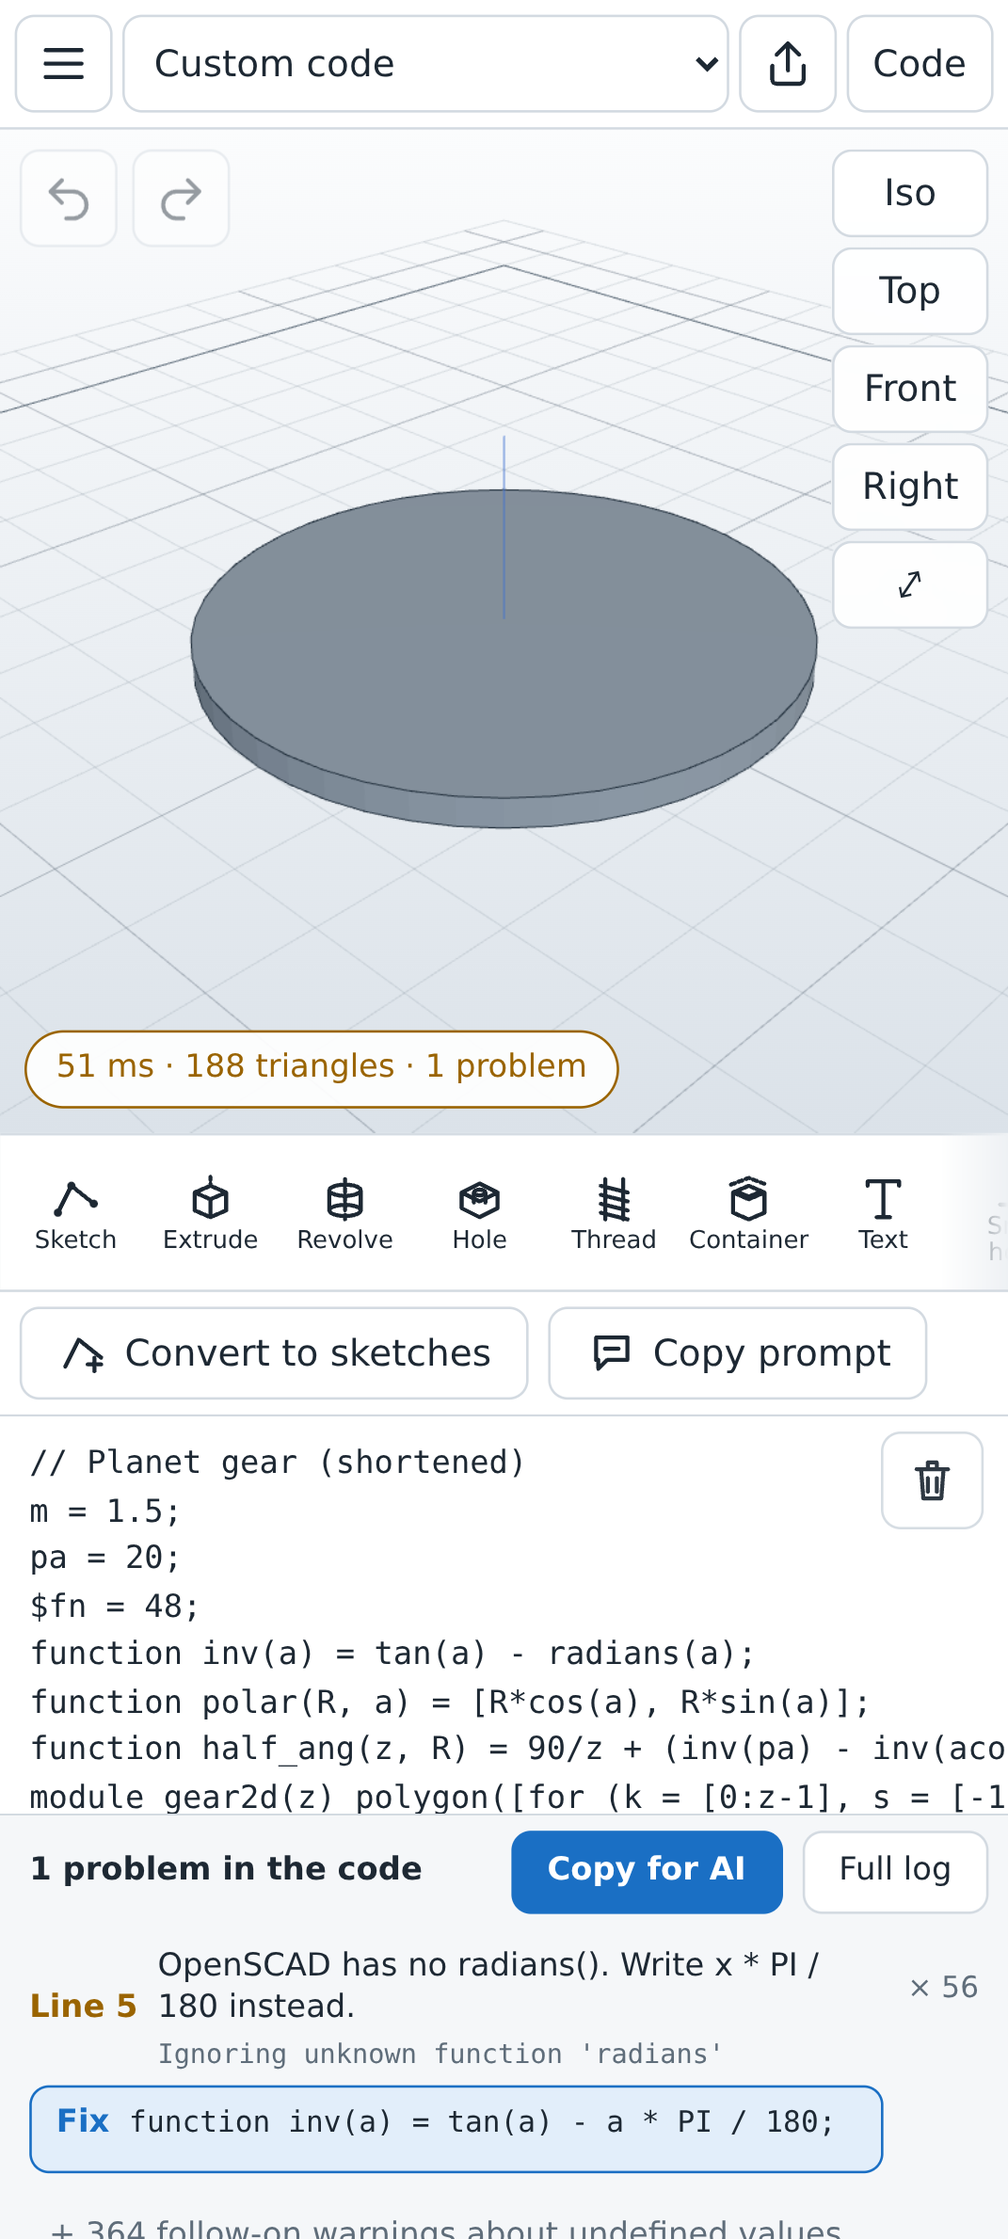
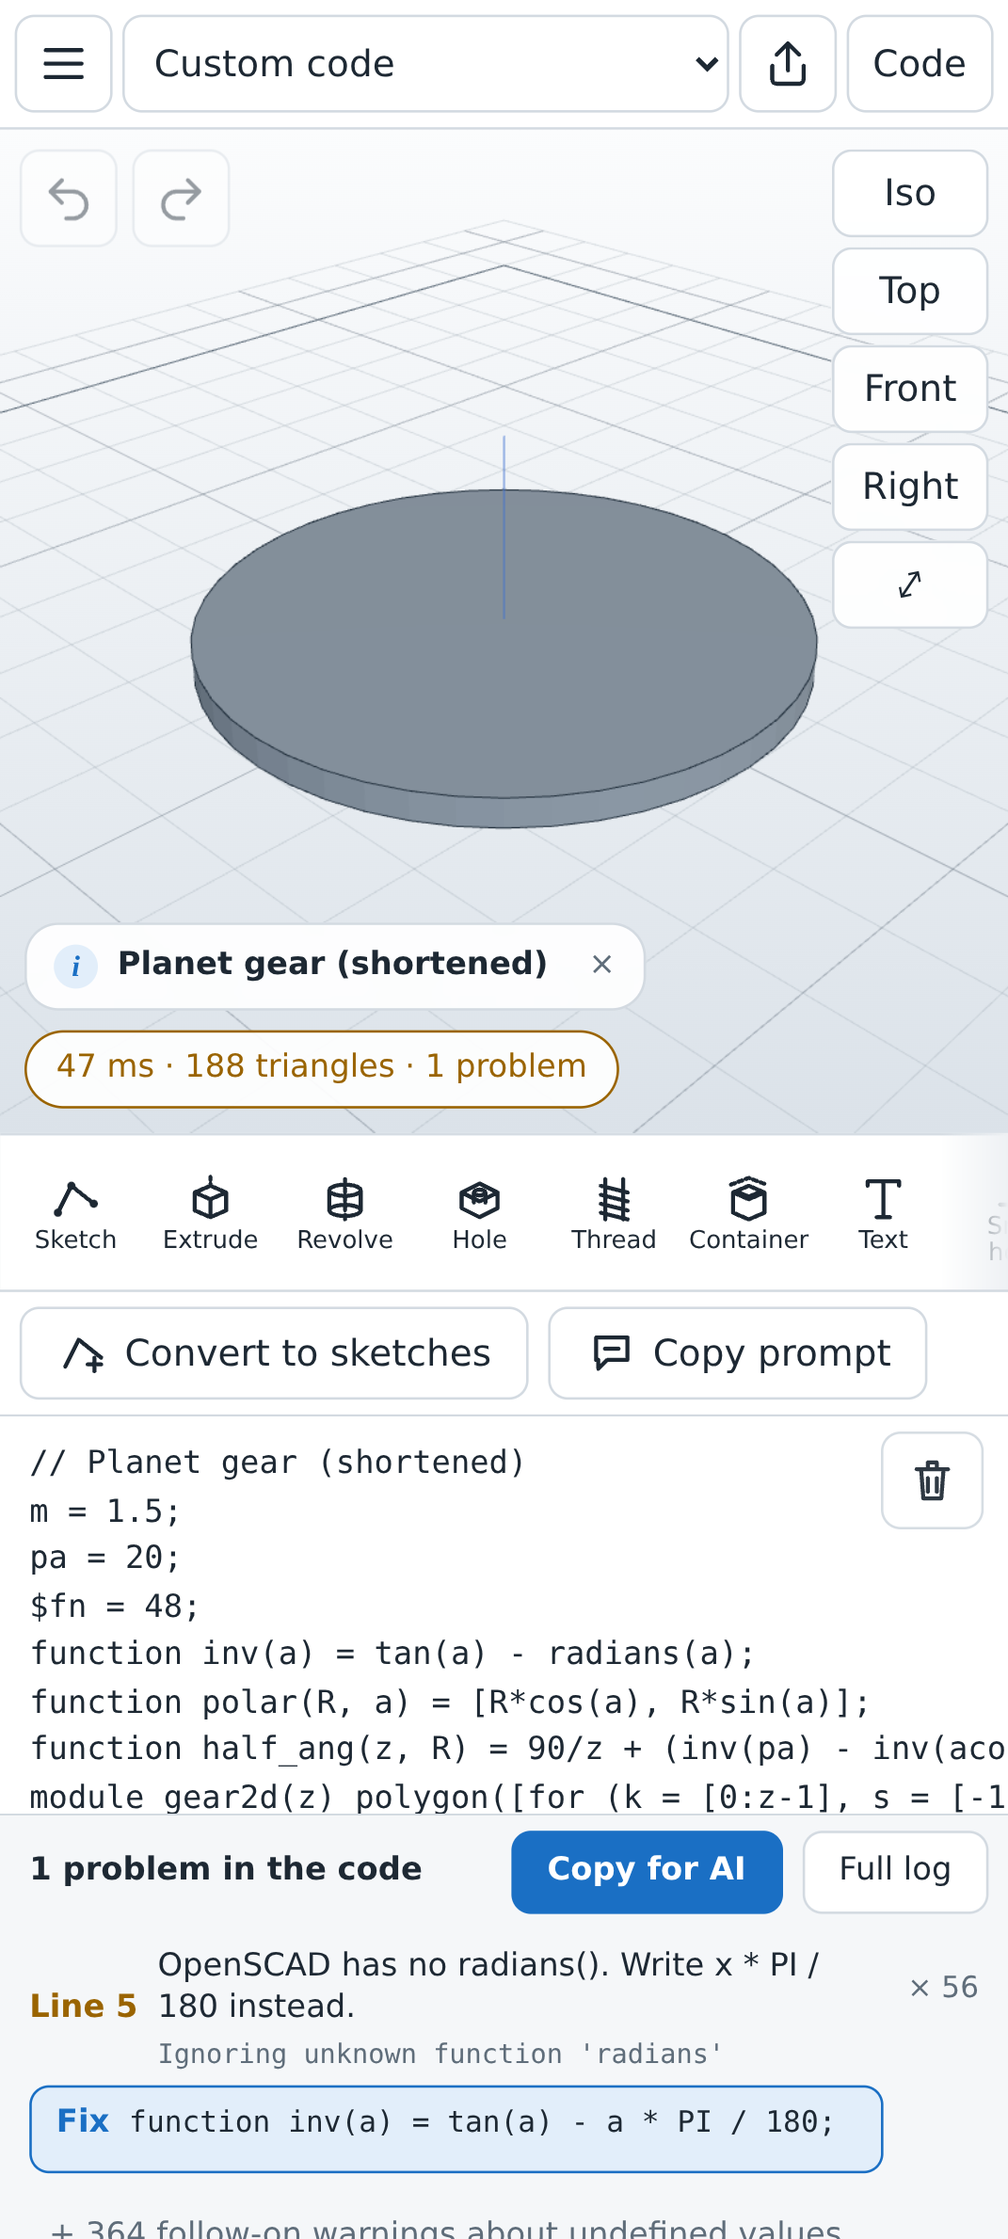
What the code says it is, above the model; print-in-place clearances in the prompt
The AI prompt asks for a comment at the top of the file: what it is, a line
per part and how they go together, and any design change a rule forced. The
app shows that comment above the status (codeDescription in aiprompt.ts,
src/ui/modelnote.ts): the title, a tap for the parts, × to hide. The prompt
also gives clearances (0.4 mm print-in-place, 0.2–0.3 mm snap and slide
fits) and says print-in-place means one print, already assembled. The AI
trial retries a chat that gave no answer and records the description.

Changed region(s): [[0.0308, 0.4044, 0.6471, 0.4977]]

diff --git a/src/i18n-sv.ts b/src/i18n-sv.ts
@@ -12,6 +12,7 @@ export const sv: Record<keyof typeof en, string> = {
   'ui.cancel': 'Avbryt',
   'ui.ok': 'OK',
   'ui.close': 'Stäng',
+  'note.title': 'Vad koden säger att den är (dess första kommentar): tryck för delarna',
   'ui.undo': 'Ångra',
   'ui.redo': 'Gör om',
   'ui.finish': 'Avsluta',
@@ -44,7 +45,7 @@ export const sv: Record<keyof typeof en, string> = {
   'ai.noCode': 'Urklippet innehåller ingen OpenSCAD-kod – kopiera koden i AI-chatten, eller håll fingret i koden och klistra in',
   'ai.fencesRemoved': 'Bara koden ur svaret klistrades in',
   'ai.received': 'Koden från AI-chatten öppnad',
-  'ai.prompt': 'Skriv en OpenSCAD-modell åt mig. Jag öppnar den i scadshape ({version}, Manifold).\n\nRegler:\n- Svara med en komplett .scad-fil i ett enda kodblock.\n- Lägg alla mått (i mm) som variabler överst med en kort kommentar, t.ex. width = 60; // yttre bredd. Använd vanliga tal, så kan de bli mått som går att ändra.\n- Vinklar är i grader: sin(30), rotate([0, 0, 45]). Det finns ingen radians().\n- Bibliotek som finns: {libs} (t.ex. include <BOSL2/std.scad>). Inga andra.\n- Skruvgängor: threaded_rod() och threaded_nut() från BOSL2 (include <BOSL2/threading.scad>). Det finns ingen screw_thread() eller metric_thread().\n- Typsnitt för text(): {fonts}.\n- Den ska gå att skriva ut på {printer} utan stöd: plant mot bädden, inget som svävar i luften, inget överhäng brantare än 45° (fasa undersidor; gängor går bra).\n- Flera delar: lägg dem bredvid varandra för utskrift, inte hopmonterade; alla, med mellanrummen, måste få plats på bädden.\n- Inga %- eller #-modifierare, och $fn högst 96.\n\nDet här vill jag ha: ',
+  'ai.prompt': 'Skriv en OpenSCAD-modell åt mig. Jag öppnar den i scadshape ({version}, Manifold).\n\nRegler:\n- Svara med en komplett .scad-fil i ett enda kodblock.\n- Börja filen med en kommentar: första raden vad det är, sedan en rad per del om vad den gör och hur den passar ihop med de andra (t.ex. // Lock: skruvas på burkens hals). Om en regel nedan fick dig att ändra designen, skriv det där också.\n- Lägg alla mått (i mm) som variabler överst med en kort kommentar, t.ex. width = 60; // yttre bredd. Använd vanliga tal, så kan de bli mått som går att ändra.\n- Vinklar är i grader: sin(30), rotate([0, 0, 45]). Det finns ingen radians().\n- Bibliotek som finns: {libs} (t.ex. include <BOSL2/std.scad>). Inga andra.\n- Skruvgängor: threaded_rod() och threaded_nut() från BOSL2 (include <BOSL2/threading.scad>). Det finns ingen screw_thread() eller metric_thread().\n- Typsnitt för text(): {fonts}.\n- Den ska gå att skriva ut på {printer} utan stöd: plant mot bädden, inget som svävar i luften, inget överhäng brantare än 45° (fasa undersidor; gängor går bra).\n- Flera delar: lägg dem bredvid varandra för utskrift, inte hopmonterade; alla, med mellanrummen, måste få plats på bädden.\n- Delar som rör sig eller passar ihop behöver spel: 0,4 mm i print-in-place-leder, 0,2–0,3 mm för snäpp- och skjutpassningar. Print-in-place betyder en enda utskrift med leden redan ihopsatt och spel runt om, inget att sätta ihop efteråt.\n- Inga %- eller #-modifierare, och $fn högst 96.\n\nDet här vill jag ha: ',
   'start.step1': 'Tryck på Skiss och välj ett plan.',
   'start.step2': 'Rita linjer, rektanglar och cirklar. Markera en linje och tryck Mått för att låsa längden.',
   'start.step3': 'Tryck Klar och sedan Extrudera – eller Hål, Behållare, Text …',

diff --git a/src/i18n-en.ts b/src/i18n-en.ts
@@ -10,6 +10,7 @@ export const en = {
   'ui.cancel': 'Cancel',
   'ui.ok': 'OK',
   'ui.close': 'Close',
+  'note.title': 'What the code says it is (its first comment): tap for the parts',
   'ui.undo': 'Undo',
   'ui.redo': 'Redo',
   'ui.finish': 'Finish',
@@ -42,7 +43,7 @@ export const en = {
   'ai.noCode': 'The clipboard has no OpenSCAD code – copy the code in the AI chat, or long-press in the code and paste',
   'ai.fencesRemoved': 'Only the code from the answer was pasted',
   'ai.received': 'Code from the AI chat opened',
-  'ai.prompt': 'Write an OpenSCAD model for me. I will open it in scadshape ({version}, Manifold backend).\n\nRules:\n- Answer with one complete .scad file in a single code block.\n- Put every measurement (in mm) as a variable at the top with a short comment, e.g. width = 60; // outer width. Use plain numbers, so they can become editable dimensions.\n- Angles are in degrees: sin(30), rotate([0, 0, 45]). There is no radians().\n- Libraries available: {libs} (e.g. include <BOSL2/std.scad>). No others.\n- Screw threads: threaded_rod() and threaded_nut() from BOSL2 (include <BOSL2/threading.scad>). There is no screw_thread() or metric_thread().\n- Fonts for text(): {fonts}.\n- It must print on {printer} without support: flat on the bed, nothing floating in the air, no overhang steeper than 45° (chamfer undersides; screw threads are fine).\n- Several parts: lay them out side by side for printing, not assembled; all of them, gaps included, must fit on the bed.\n- No % or # modifiers, and $fn at most 96.\n\nWhat I want: ',
+  'ai.prompt': 'Write an OpenSCAD model for me. I will open it in scadshape ({version}, Manifold backend).\n\nRules:\n- Answer with one complete .scad file in a single code block.\n- Start the file with a comment: first line what it is, then a line per part saying what it does and how it fits the others (e.g. // Lid: screws onto the jar\'s neck). If a rule below made you change the design, say so there too.\n- Put every measurement (in mm) as a variable at the top with a short comment, e.g. width = 60; // outer width. Use plain numbers, so they can become editable dimensions.\n- Angles are in degrees: sin(30), rotate([0, 0, 45]). There is no radians().\n- Libraries available: {libs} (e.g. include <BOSL2/std.scad>). No others.\n- Screw threads: threaded_rod() and threaded_nut() from BOSL2 (include <BOSL2/threading.scad>). There is no screw_thread() or metric_thread().\n- Fonts for text(): {fonts}.\n- It must print on {printer} without support: flat on the bed, nothing floating in the air, no overhang steeper than 45° (chamfer undersides; screw threads are fine).\n- Several parts: lay them out side by side for printing, not assembled; all of them, gaps included, must fit on the bed.\n- Parts that move or fit together need a gap: 0.4 mm in print-in-place joints, 0.2–0.3 mm for snap and slide fits. Print-in-place means one print with the joint already assembled and the gap all round, nothing to put together afterwards.\n- No % or # modifiers, and $fn at most 96.\n\nWhat I want: ',
   'start.step1': 'Tap Sketch and pick a plane.',
   'start.step2': 'Draw lines, rectangles and circles. Select a line and tap Dimension to lock its length.',
   'start.step3': 'Tap Done, then Extrude – or Hole, Container, Text …',

diff --git a/tools/aitrial/trial.ts b/tools/aitrial/trial.ts
@@ -10,7 +10,7 @@ import { execFile, spawn } from 'node:child_process';
 import { randomUUID } from 'node:crypto';
 import { mkdirSync, readFileSync, writeFileSync } from 'node:fs';
 import { Worker } from 'node:worker_threads';
-import { aiPrompt, codeFromChat, looksLikeScad } from '../../src/aiprompt';
+import { aiPrompt, codeDescription, codeFromChat, looksLikeScad } from '../../src/aiprompt';
 import { scadToDoc, type ConvertEngine } from '../../src/convert/scad2doc';
 import { diagnose, meshProblems, problemsForAi, type Problem } from '../../src/diagnose';
 import { setLang } from '../../src/i18n';
@@ -93,13 +93,19 @@ async function trial(n: number) {
   const slug = request.toLowerCase().normalize('NFD').replace(/[^a-z0-9]+/g, '-').replace(/^-|-$/g, '').slice(0, 40);
   const dir = `${OUT}/${String(n).padStart(2, '0')}-${slug}`;
   mkdirSync(dir, { recursive: true });
-  const session = randomUUID();
+  let session = randomUUID();
   let text = aiPrompt({ version: VERSION, bed: BED, printer: 'Bambu Lab A1 mini' }) + request;
   const rounds: object[] = [];
   let cost = 0, last: string | null = null, clean = false;
   for (let r = 0; r <= ROUNDS; r++) {
     writeFileSync(`${dir}/r${r}-ask.txt`, text);
-    const a = await ask(session, text, r === 0);
+    let a = await ask(session, text, r === 0);
+    // The CLI now and then gives nothing at all (long answers, several chats at once): once more,
+    // in a new chat if it was the first question.
+    if (!a.reply && !a.cost) {
+      if (r === 0) session = randomUUID();
+      a = await ask(session, text, r === 0);
+    }
     cost += a.cost;
     writeFileSync(`${dir}/r${r}-reply.md`, a.reply || `ERROR: ${a.error}`);
     if (a.error || !a.reply) { rounds.push({ round: r, error: a.error ?? 'empty reply' }); break; }
@@ -133,10 +139,11 @@ async function trial(n: number) {
     text = problemsForAi(problems, code, VERSION);
   }
   // The last code: a picture, and Convert to sketches.
-  let convert: object | null = null;
+  let convert: object | null = null, description: { title: string; body: string } | null = null;
   if (last) {
     await picture(dir, last);
     const src = readFileSync(`${dir}/${last}.scad`, 'utf8');
+    description = codeDescription(src); // what the app shows above the model
     try {
       const r = await Promise.race([scadToDoc(src, engine), new Promise<never>((_, no) => setTimeout(() => no(new Error('convert timeout')), 240_000))]);
       convert = { sketches: r.sketches, extrudes: r.extrudes, revolves: r.revolves, codeBlocks: r.codeBlocks, params: r.params, linked: r.linked };
@@ -144,7 +151,7 @@ async function trial(n: number) {
       convert = { error: String(e).slice(0, 300) };
     }
   }
-  const result = { n, request, session, clean, rounds: rounds.length, cost: Math.round(cost * 10000) / 10000, last, convert, detail: rounds };
+  const result = { n, request, session, clean, rounds: rounds.length, cost: Math.round(cost * 10000) / 10000, last, description, convert, detail: rounds };
   writeFileSync(`${dir}/result.json`, JSON.stringify(result, null, 2));
   console.log(`${String(n).padStart(2)} ${clean ? 'clean' : 'NOT clean'} after ${rounds.length} round(s), $${result.cost}: ${request}`);
   return result;

diff --git a/tests/diagnose.test.ts b/tests/diagnose.test.ts
@@ -13,7 +13,7 @@ import { parseBinaryStl } from '../src/stl';
 import { FONTS_CONF, fontsFor } from '../src/fonts';
 import { lint } from '../src/lint';
 import { applyFix } from '../src/fixes';
-import { aiPrompt, codeFromChat, looksLikeScad } from '../src/aiprompt';
+import { aiPrompt, codeDescription, codeFromChat, looksLikeScad } from '../src/aiprompt';
 import { buildModel } from '../src/model3d';
 import { EXAMPLES, buildExample } from '../src/examples/models';
 setLang('en');
@@ -112,8 +112,18 @@ await test('the code is picked out of an AI chat answer', () => {
   assert.ok(looksLikeScad('cube(10);') && !looksLikeScad('https://example.com/model') && !looksLikeScad('Sure! Here is your model.'));
 });
 
+await test('the comment at the top of the code says what it is: a title and the parts', () => {
+  const src = '\n// Screw-top jar, 60 mm\n// ====================\n// Jar: the body, thread on its neck.\n// Lid: screws onto the neck.\n//\n\njar_d = 60; // outer diameter\n// not part of it\ncube(1);\n';
+  assert.deepEqual(codeDescription(src), { title: 'Screw-top jar, 60 mm', body: 'Jar: the body, thread on its neck.\nLid: screws onto the neck.' });
+  assert.deepEqual(codeDescription('/* Hook\n * Arm: 45° brace under it.\n */\ncube(1);'), { title: 'Hook', body: 'Arm: 45° brace under it.' });
+  assert.equal(codeDescription('width = 40; // outer width\ncube(width);'), null);
+  assert.equal(codeDescription('// ok\ncube(1);'), null); // too short to say anything
+});
+
 await test('the prompt tells the AI what the app runs', () => {
   const p = aiPrompt({ version: 'OpenSCAD 2026.10.15', bed: { w: 180, d: 180, h: 180 }, printer: 'Bambu Lab A1 mini' });
+  assert.match(p, /Start the file with a comment: first line what it is, then a line per part/);
+  assert.match(p, /0\.4 mm in print-in-place joints/);
   assert.match(p, /scadshape \(OpenSCAD 2026\.10\.15, Manifold backend\)/);
   assert.match(p, /Libraries available: BOSL2, Round-Anything, dotSCAD, gridfinity-rebuilt-openscad, MCAD \(/);
   assert.match(p, /Fonts for text\(\): Liberation Sans, Liberation Serif, Liberation Mono, Allerta Stencil, Bebas Neue, Pacifico, Orbitron\./);

diff --git a/public/style.css b/public/style.css
@@ -270,6 +270,29 @@ main { display: flex; min-height: 0; }
 .status.warn { color: var(--warn); border-color: var(--warn); }
 @keyframes spin { to { transform: rotate(360deg); } }
 
+/* What the code says it is (its top comment, src/ui/modelnote.ts): above the status, tap for the parts. */
+.modelnote {
+  position: absolute;
+  left: max(10px, env(safe-area-inset-left));
+  bottom: calc(max(10px, env(safe-area-inset-bottom)) + 40px);
+  display: grid;
+  grid-template-columns: minmax(0, 1fr) auto;
+  max-width: min(440px, calc(100% - 20px));
+  border: 1px solid var(--line);
+  border-radius: 14px;
+  background: var(--float);
+  backdrop-filter: blur(4px);
+  font-size: 13px;
+}
+.modelnote[hidden] { display: none; }
+.modelnote button { min-height: 34px; border-color: transparent; background: none; }
+#modelNoteToggle { justify-content: flex-start; gap: 8px; min-width: 0; padding: 0 4px 0 10px; text-align: left; }
+#modelNoteTitle { overflow: hidden; text-overflow: ellipsis; white-space: nowrap; font-weight: 600; }
+.modelnote .ni { flex: none; display: inline-grid; place-items: center; width: 18px; height: 18px; border-radius: 50%; background: var(--accent-soft); color: var(--accent); font: italic 700 12px Georgia, serif; }
+#modelNoteClose { width: 34px; padding: 0; color: var(--muted); }
+#modelNoteBody { grid-column: 1 / -1; max-height: 35vh; overflow: auto; padding: 0 12px 10px 36px; white-space: pre-wrap; line-height: 1.4; }
+#modelNoteBody[hidden] { display: none; }
+
 /*
  * Until main.ts has loaded the models (IndexedDB) and wired up the buttons: nothing to tap. After
  * 3 s the page shows anyway (in case the startup crashed).
@@ -594,7 +617,7 @@ body { grid-template-columns: minmax(0, 1fr); }
 .bar > * { min-width: 0; }
 .bar select { width: 0; flex: 1 1 auto; }
 @media (orientation: portrait) {
-  #viewport:has(#featPanel:not([hidden])) .status { display: none; }
+  #viewport:has(#featPanel:not([hidden])) .status, #viewport:has(#featPanel:not([hidden])) .modelnote { display: none; }
 }
 
 .fp-pair { display: grid; grid-template-columns: minmax(0, 1fr) minmax(0, 1fr); gap: 8px; }

diff --git a/src/aiprompt.ts b/src/aiprompt.ts
@@ -29,6 +29,29 @@ export function codeFromChat(text: string): string {
   return `${pick.code.replace(/\s+$/, '')}\n`;
 }
 
+/**
+ * What the code says it is: the comment block at its top (the prompt asks the AI to start with one:
+ * what it is, then a line per part and how they go together). `title` is its first line, `body` the
+ * rest; null without one. Rules like // ====== are left out.
+ */
+export function codeDescription(src: string): { title: string; body: string } | null {
+  const lines: string[] = [];
+  const rest = src.replace(/^\s+/, '');
+  const block = /^\/\*([\s\S]*?)\*\//.exec(rest);
+  if (block) lines.push(...block[1].split('\n').map(l => l.replace(/^\s*\*?\s?/, '')));
+  else
+    for (const l of rest.split('\n')) {
+      const m = /^\s*\/\/+\s?(.*)$/.exec(l);
+      if (!m) break;
+      lines.push(m[1]);
+    }
+  const text = lines.map(l => l.trimEnd()).filter(l => !/^[-=*#_~\s]{3,}$/.test(l));
+  while (text.length && !text[0].trim()) text.shift();
+  while (text.length && !text[text.length - 1].trim()) text.pop();
+  if (!text.length || text[0].trim().length < 3) return null;
+  return { title: text[0].trim(), body: text.slice(1).join('\n') };
+}
+
 /** Does the text look like OpenSCAD code (and not, say, a link or a sentence)? */
 export const looksLikeScad = (s: string) =>
   /[;{}]/.test(s) && /\b(cube|cylinder|sphere|polygon|polyhedron|square|circle|text|module|function|linear_extrude|rotate_extrude|union|difference|intersection|hull|translate|include|use)\b/.test(s);

diff --git a/src/ui/modelnote.ts b/src/ui/modelnote.ts
@@ -1,0 +1,34 @@
+// What the code says it is: the comment block at the top of example or custom code (the AI prompt
+// asks for one: what it is, a line per part and how they go together), shown above the status bar.
+// Its first line shows; a tap opens the rest. Closed with ×, it stays away until the comment changes.
+
+import { codeDescription } from '../aiprompt';
+import { $ } from './dom';
+
+let shown = '', closed = '';
+
+function setOpen(open: boolean) {
+  $('#modelNoteBody').hidden = !open || !$('#modelNoteBody').textContent;
+  $('#modelNoteToggle').setAttribute('aria-expanded', String(open));
+}
+
+/** Show the top comment of `src` (null: none, e.g. the user's own model). */
+export function showModelNote(src: string | null) {
+  const d = src ? codeDescription(src) : null;
+  const key = d ? `${d.title}\n${d.body}` : '';
+  const note = $('#modelNote');
+  note.hidden = !d || key === closed;
+  if (!d || key === shown) return;
+  shown = key;
+  $('#modelNoteTitle').textContent = d.title;
+  $('#modelNoteBody').textContent = d.body;
+  setOpen(false);
+}
+
+export function initModelNote() {
+  $('#modelNoteToggle').addEventListener('click', () => setOpen($('#modelNoteToggle').getAttribute('aria-expanded') !== 'true'));
+  $('#modelNoteClose').addEventListener('click', () => {
+    closed = shown;
+    $('#modelNote').hidden = true;
+  });
+}

diff --git a/src/ui/render.ts b/src/ui/render.ts
@@ -12,6 +12,7 @@ import { Viewer } from '../viewer';
 import { bedOf, fitsBed, meshSize, parseBedChoice } from '../bed';
 import { t, type Key } from '../i18n';
 import { $, el, fmtInt, fmtMs, store } from './dom';
+import { showModelNote } from './modelnote';
 import { clearProblems, showProblems } from './problems';
 import { app, on, vars } from './state';
 import cube from '../examples/cube.scad';
@@ -160,6 +161,7 @@ async function renderOnce() {
   const src = app.source === 'custom' ? code.value : currentCode();
   if (app.source !== 'custom') code.value = src;
   else store.set('code', code.value);
+  showModelNote(app.source === 'model' ? null : src);
   for (const cb of renderOpts.onRendered) cb();
   const errs = app.source === 'model' ? app.model.errors.size : 0;
   const errText = errs ? ` · ${t('status.treeErrors', { n: errs })}` : '';

diff --git a/public/index.html b/public/index.html
@@ -125,6 +125,11 @@
         <button id="btnFit" data-i18n-aria="view.fit">⤢</button>
       </div>
       <div id="status" class="status busy"></div>
+      <div id="modelNote" class="modelnote" hidden>
+        <button type="button" id="modelNoteToggle" aria-expanded="false" data-i18n-title="note.title"><span class="ni">i</span><b id="modelNoteTitle"></b></button>
+        <button type="button" id="modelNoteClose" class="icon" data-i18n-aria="ui.close" data-i18n-title="ui.close">×</button>
+        <div id="modelNoteBody" hidden></div>
+      </div>
       <div id="measureBar" class="hintbar measurebar" hidden>
         <span class="mtext"><b id="measureMain"></b><small id="measureDetail"></small></span>
         <button id="measureClear" data-i18n="measure.clear" hidden>Clear</button>

diff --git a/src/main.ts b/src/main.ts
@@ -22,6 +22,7 @@ import { openStorage, storageForTests, storageHooks } from './kv';
 import { initHistory, recordDoc } from './ui/history';
 import { initConvert } from './ui/convert';
 import { initProblems } from './ui/problems';
+import { initModelNote } from './ui/modelnote';
 import { initAiFlow } from './ui/aiflow';
 import { initMeasure, stopMeasure } from './ui/measure';
 import { initImport } from './ui/importer';
@@ -140,6 +141,7 @@ initProjects();
 initHistory();
 initConvert();
 initProblems();
+initModelNote();
 initAiFlow();
 initMeasure();
 initImport();
